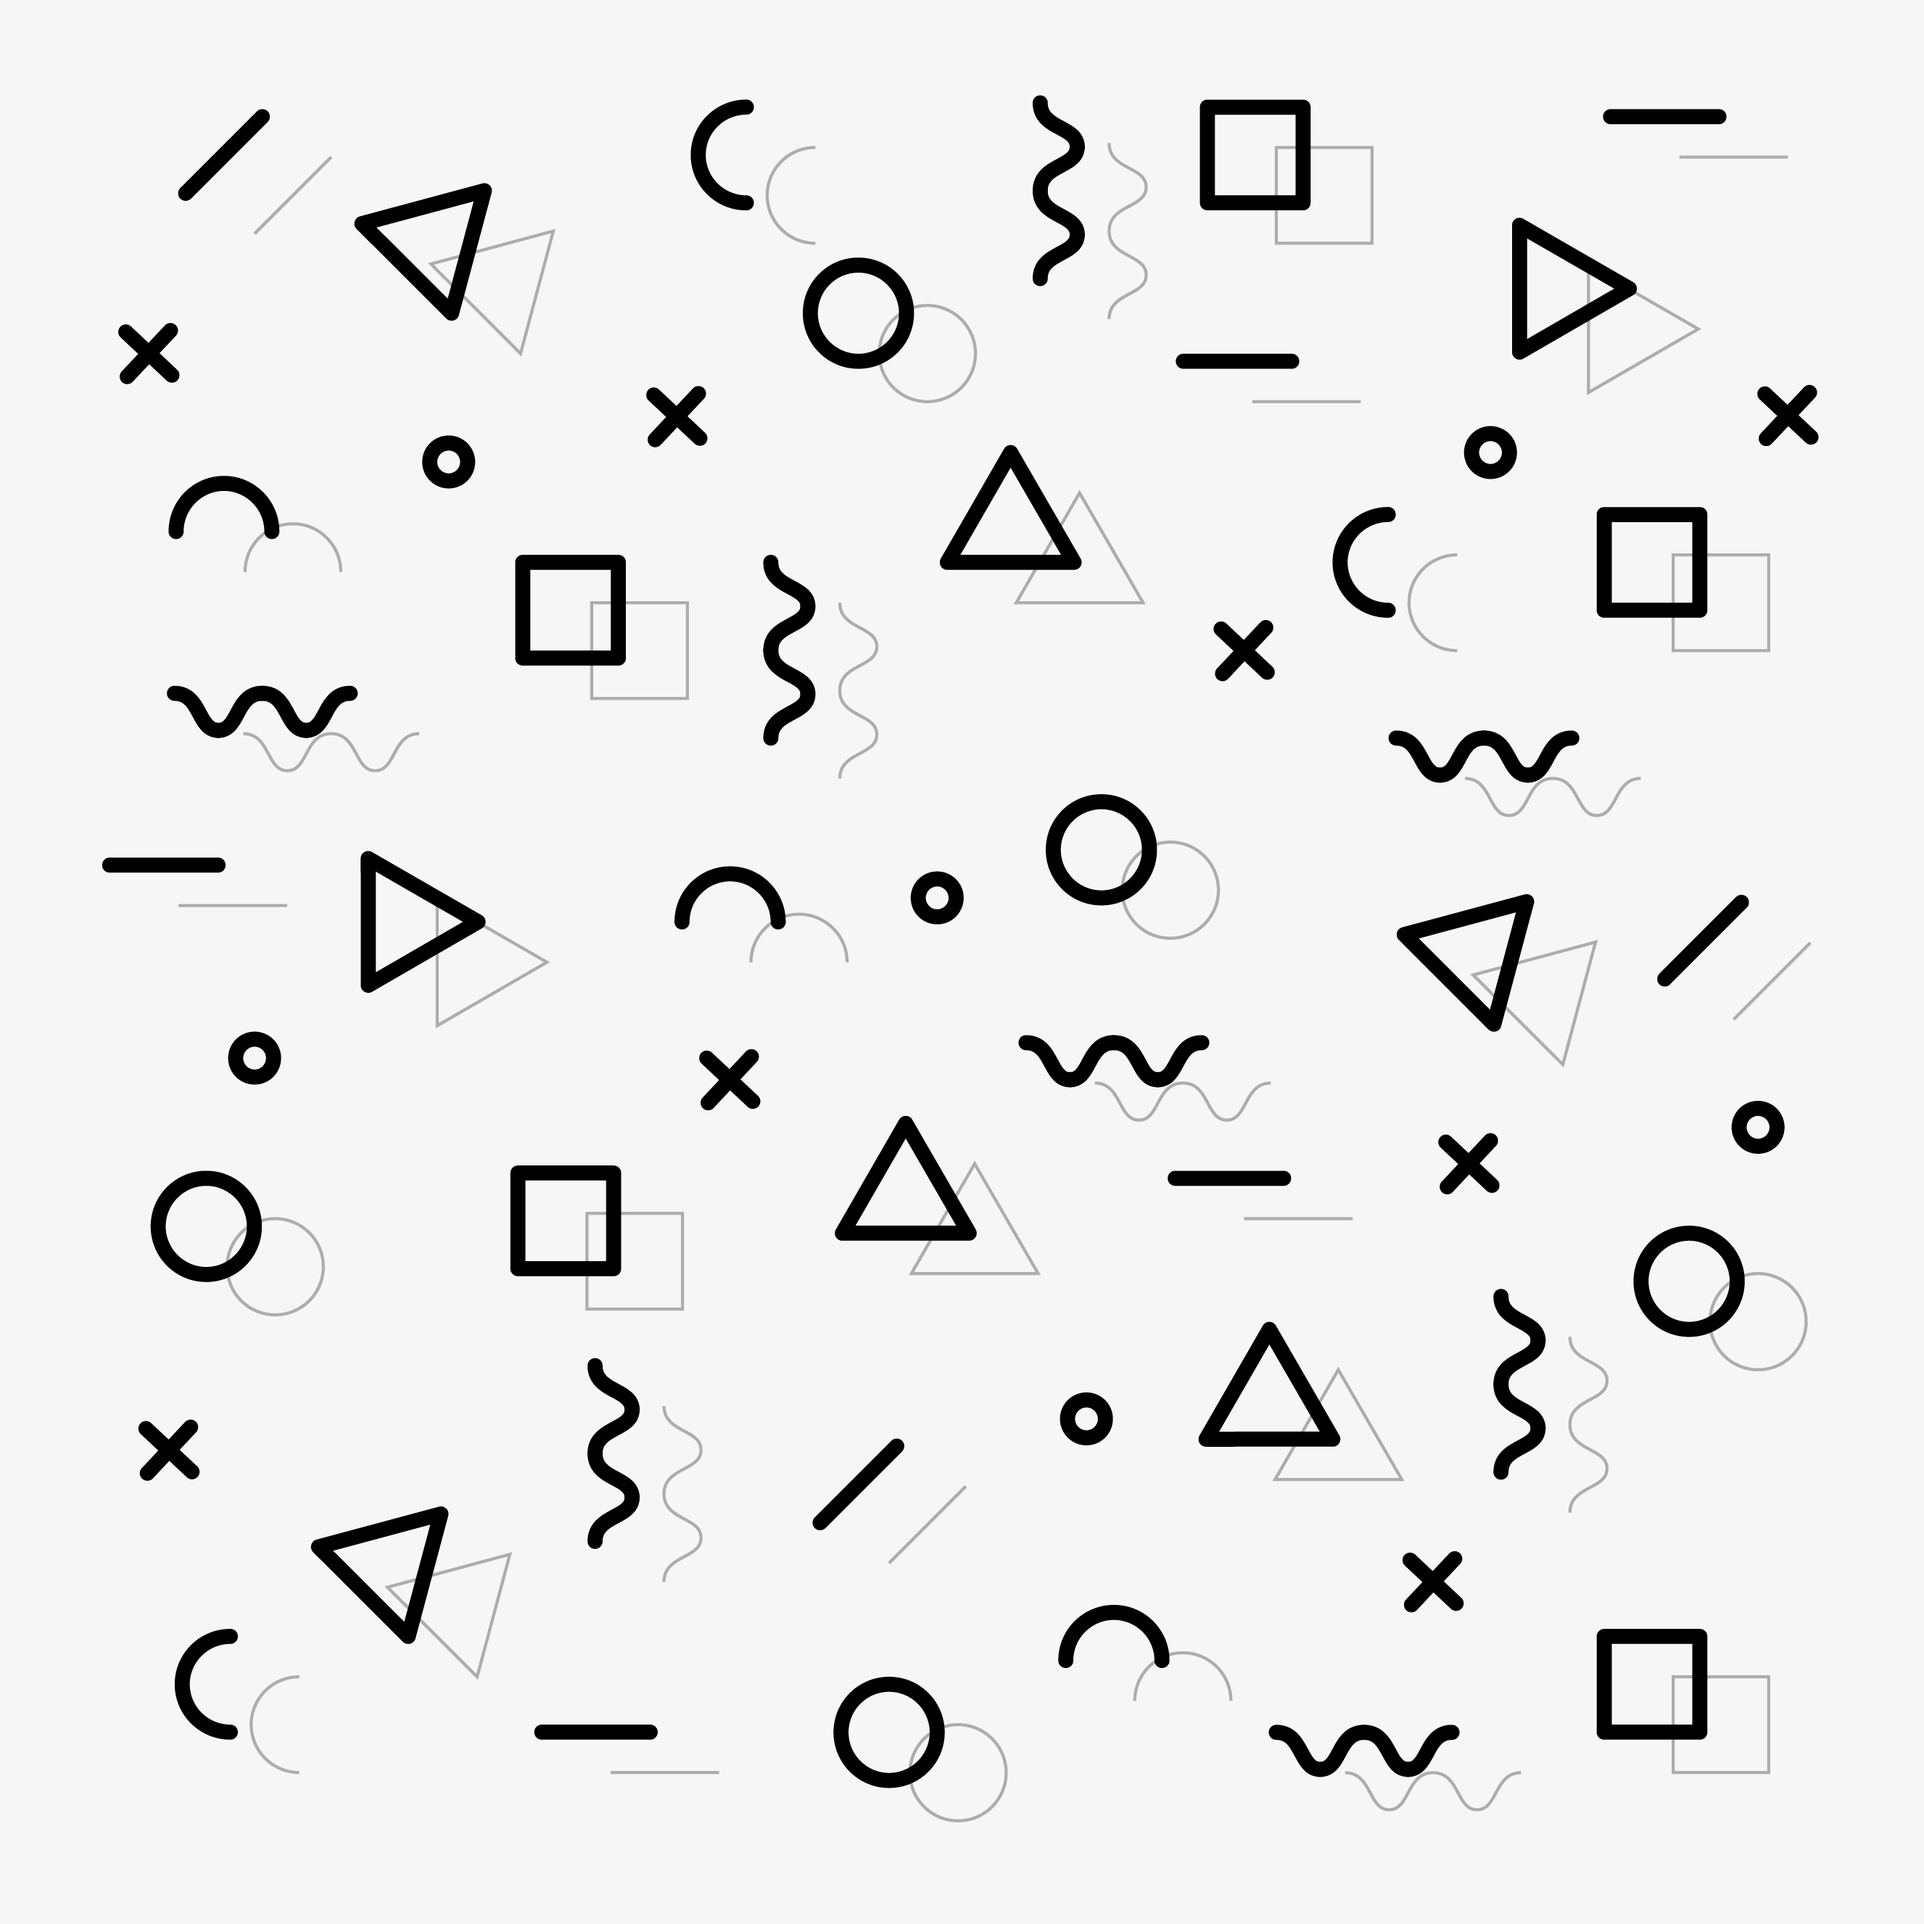
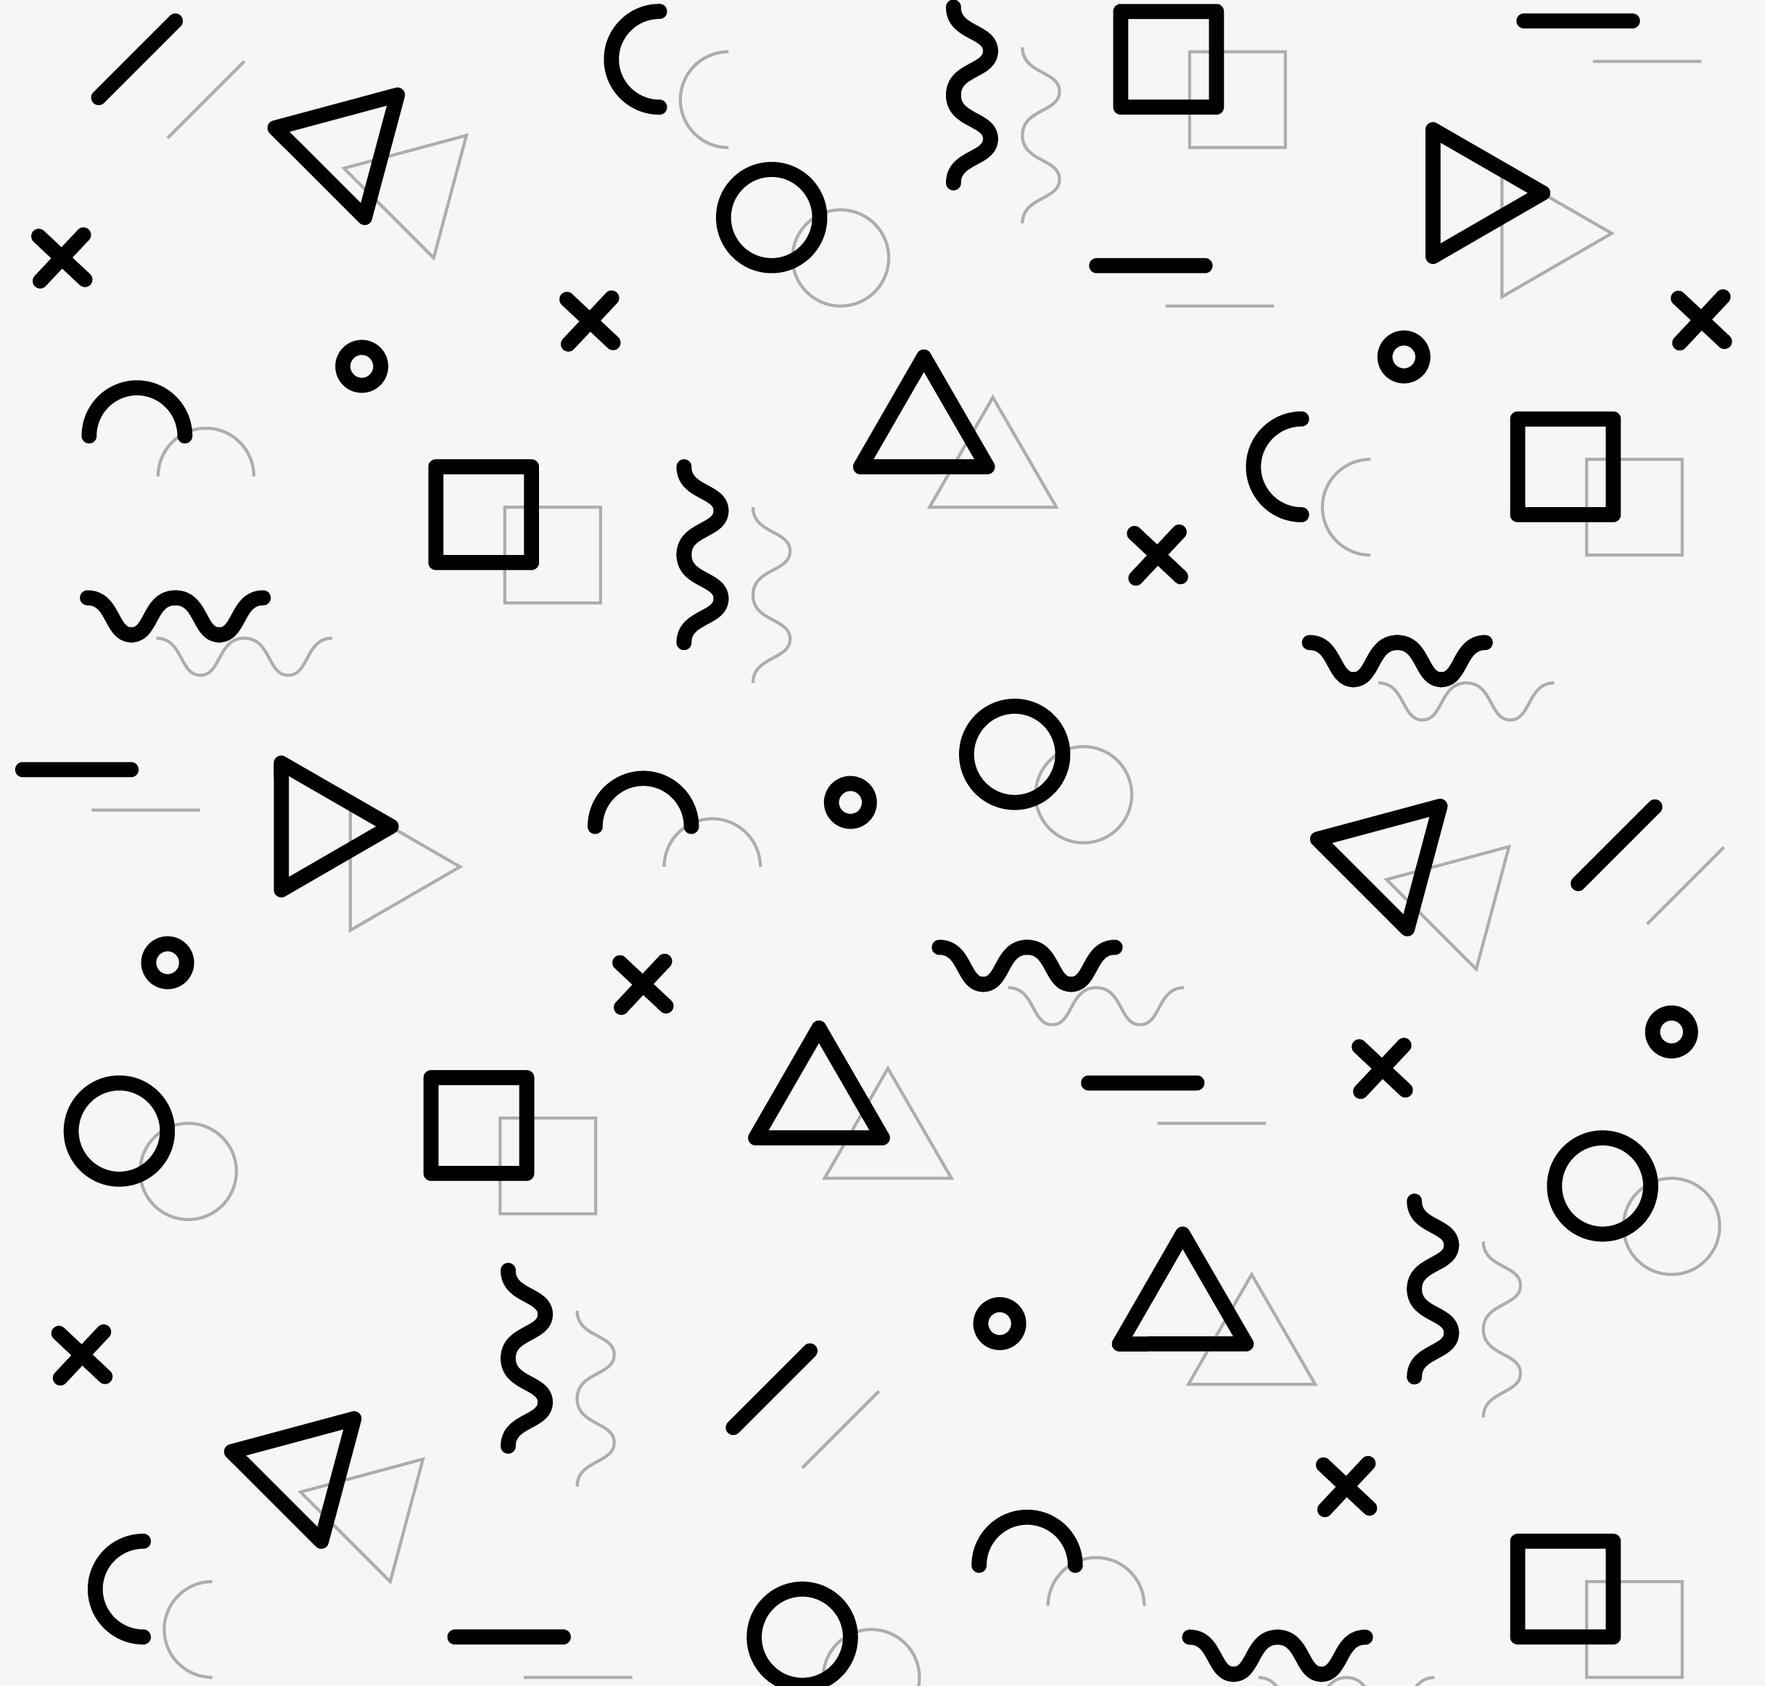
added analytics

diff --git a/app/page.tsx b/app/page.tsx
@@ -3,7 +3,7 @@ import { metadata } from "./layout";
 export default function Home() {
   return (
     <>
-      <main className="flex min-h-screen flex-col items-center justify-center p-1 font-mono bg-gray-300 bg-pattern">
+      <main className="flex min-h-screen flex-col items-center justify-center p-1 font-mono bg-gray-300 background-pattern">
         <div className="">
           <div className="container">
             <div className="row">
@@ -12,19 +12,20 @@ export default function Home() {
                   <b>{metadata.title}</b>
                 </h1>
                 <h2 className="h3 mt-4">{metadata.description}</h2>
-                <h3 className="h1 mt-4 font-bold">
-                  Special deal{" "}
+                <h3 className="h1 mt-4">
                   <i>
                     <s>20$</s>
                   </i>{" "}
-                  10$
+                  <b>10$</b>
+                  <span className="h5"> Special offer </span>
                 </h3>
-                <button className="mt-4 middle none center rounded-lg bg-blue-500 py-3.5 px-7 font-sans text-sm font-bold uppercase text-white shadow-md shadow-blue-500/20 transition-all hover:shadow-lg hover:shadow-blue-500/40 focus:opacity-[0.85] focus:shadow-none active:opacity-[0.85] active:shadow-none disabled:pointer-events-none disabled:opacity-50 disabled:shadow-none text-xl">
+                <a className="mt-4 middle none text-center rounded-lg bg-blue-500 py-3.5 px-7 font-sans text-sm font-bold uppercase text-white shadow-md shadow-blue-500/20 transition-all hover:shadow-lg hover:shadow-blue-500/40 focus:opacity-[0.85] focus:shadow-none active:opacity-[0.85] active:shadow-none disabled:pointer-events-none disabled:opacity-50 disabled:shadow-none text-xl" 
+                href="#">
                   REGISTER
-                </button>
+                </a>
               </div>
               <div className=" mt-4 col-md d-none d-lg-block flex flex-col">
-                <img className="floating" src="/telegram.png" alt="" />
+                <img className="floating" src="/telegram.png" alt="telegram logo" />
               </div>
             </div>
           </div>

diff --git a/app/layout.tsx b/app/layout.tsx
@@ -1,23 +1,48 @@
-import './globals.css'
+import "./globals.css";
 import "bootstrap/dist/css/bootstrap.min.css";
+import Providers from "./providers";
 
-import { Inter } from 'next/font/google'
+import { Inter } from "next/font/google";
+import Script from "next/script";
 
-const inter = Inter({ subsets: ['latin'] })
+const inter = Inter({ subsets: ["latin"] });
 
 export const metadata = {
-  title: 'GetSMS: Allow your business go international.',
-  description: 'Receive SMS from anywhere from anywhere in the world: Reserve Phone Numbers in 20+ Countries, Including US 🇺🇸, UK 🇬🇧, and EU 🇪🇺, and Receive OTP and SMS Within Our Application with a flat monthly fee.',
-}
+  title: "GetSMS: Allow your business go international.",
+  description:
+    "Receive SMS from anywhere from anywhere in the world: Reserve Phone Numbers in 20+ Countries, Including US 🇺🇸, UK 🇬🇧, and EU 🇪🇺. Receive SMS/OTP with a simple flat monthly fee.",
+};
+
+const googleID = process.env.GOOGLE_TAG;
 
 export default function RootLayout({
   children,
 }: {
-  children: React.ReactNode
+  children: React.ReactNode;
 }) {
   return (
     <html lang="en">
-      <body className={inter.className}>{children}</body>
+      <Providers>
+        <body className={inter.className}>{children}</body>
+      </Providers>
+      <Script
+        strategy="afterInteractive"
+        src={"https://www.googletagmanager.com/gtag/js?id=" + googleID}
+      />
+      <Script
+        id="google-analytics"
+        strategy="afterInteractive"
+        dangerouslySetInnerHTML={{
+          __html: `
+          window.dataLayer = window.dataLayer || [];
+          function gtag(){dataLayer.push(arguments);}
+          gtag('js', new Date());
+          gtag('config', '${googleID}', {
+            page_path: window.location.pathname,
+          });
+        `,
+        }}
+      />
     </html>
-  )
+  );
 }

diff --git a/app/providers.js b/app/providers.js
@@ -1,0 +1,14 @@
+// app/providers.js
+'use client'
+import posthog from 'posthog-js'
+import { PostHogProvider } from 'posthog-js/react'
+
+if (typeof window !== 'undefined') {
+  posthog.init(process.env.NEXT_PUBLIC_POSTHOG_KEY, {
+    api_host: process.env.NEXT_PUBLIC_POSTHOG_HOST
+  })
+}
+
+export default function PHProvider({ children }) {
+  return <PostHogProvider client={posthog}>{children}</PostHogProvider>
+}

diff --git a/tailwind.config.js b/tailwind.config.js
@@ -11,7 +11,6 @@ module.exports = {
         "gradient-radial": "radial-gradient(var(--tw-gradient-stops))",
         "gradient-conic":
           "conic-gradient(from 180deg at 50% 50%, var(--tw-gradient-stops))",
-        "bg-pattern": "background-image('/pattern.jpg')",
       },
     },
   },

diff --git a/app/globals.css b/app/globals.css
@@ -40,3 +40,9 @@ body {
 .floating {
   animation: 6s ease 0s infinite normal none running floating;
 }
+
+.background-pattern {
+  background: url("/pattern.png");
+  background-repeat: repeat;
+  background-size: 300px;
+}
